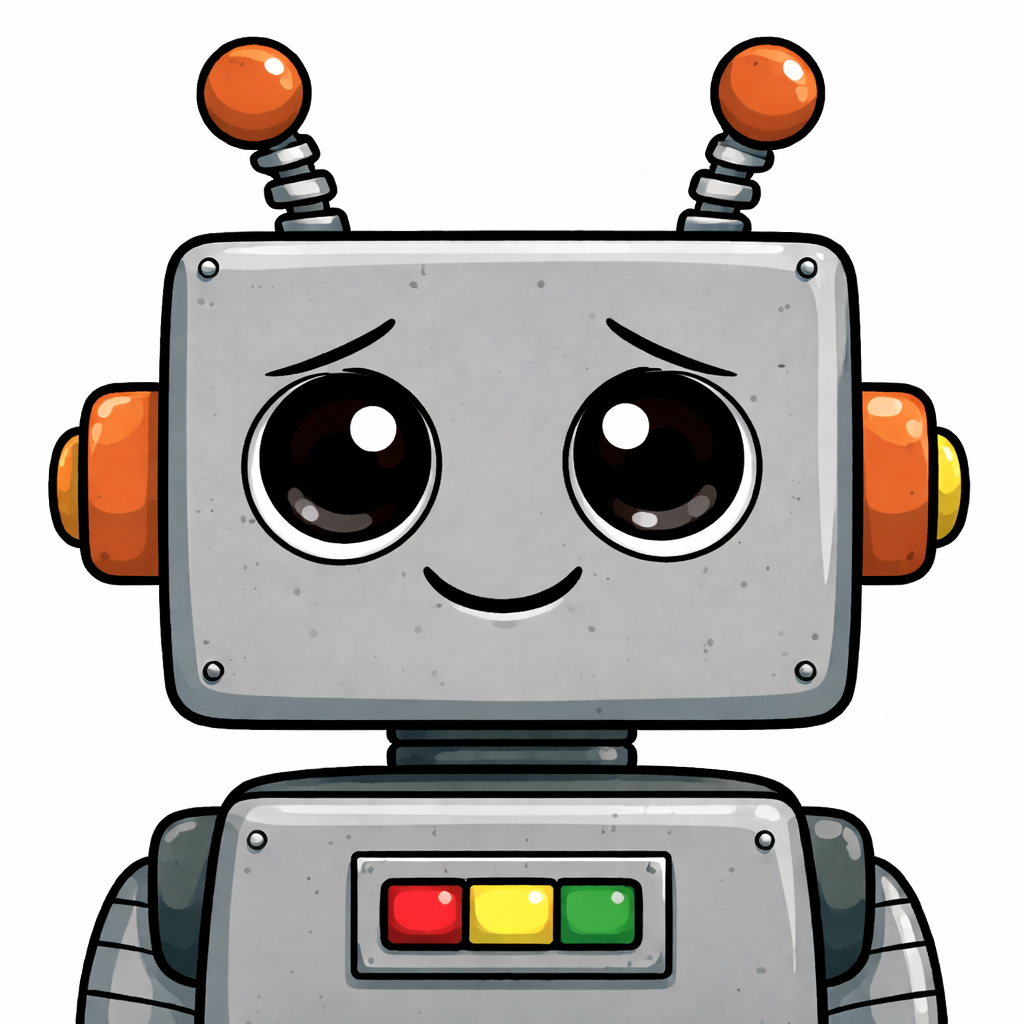
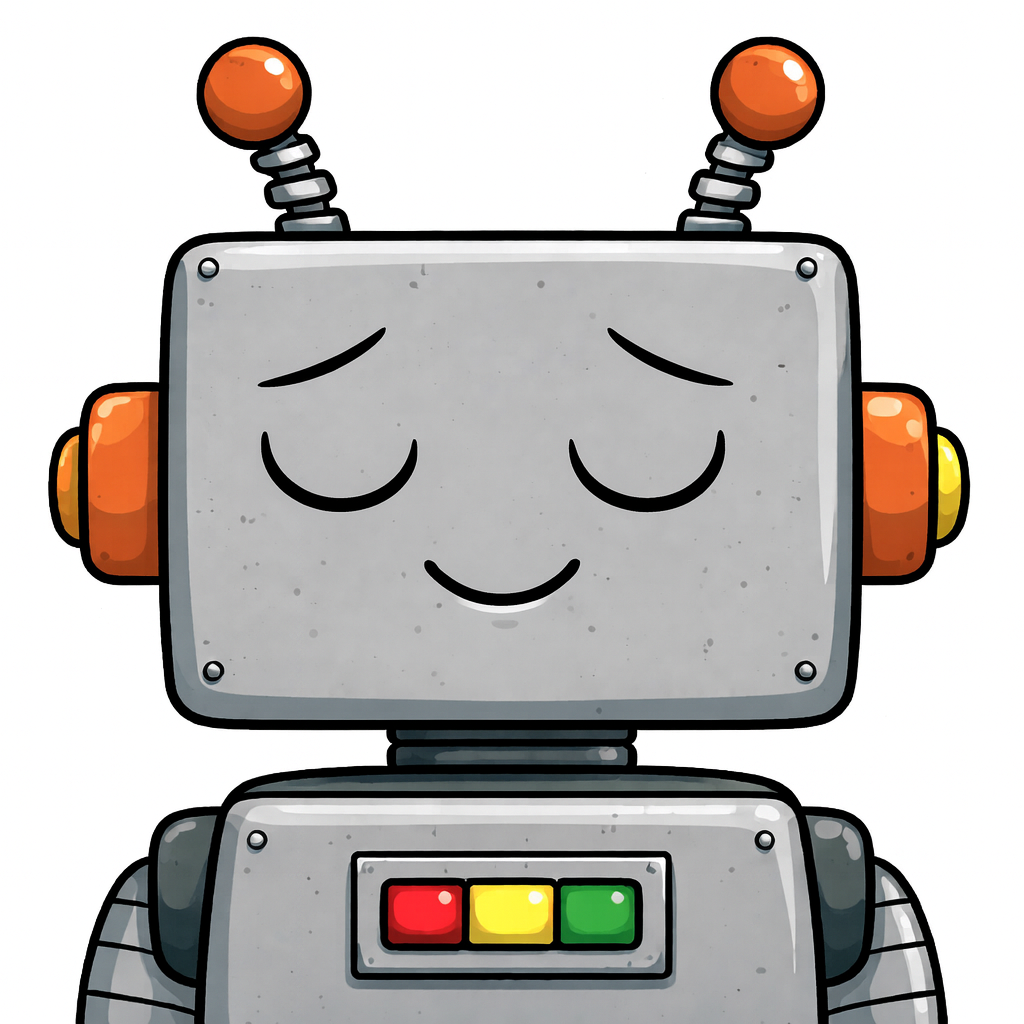
feat: added more moods

Changed region(s): [[0.2188, 0.3125, 0.5625, 0.625], [0.5312, 0.3125, 0.75, 0.5625]]

diff --git a/frontend/src/services/robotSprites.ts b/frontend/src/services/robotSprites.ts
@@ -19,7 +19,6 @@
 
 import {
     registerSprite,
-    registerIdleBehaviour,
 } from './robotAnimation'
 
 // ── Sad mood sprites ────────────────────────────────────────────────────────
@@ -46,9 +45,17 @@ registerSprite('sad', 'idle', 'closed', sadIdleClosed)
 
 import slightlyHappyIdleOpen from '../assets/slightly_happy_robot.png'
 import slightlyHappyIdleClosed from '../assets/slightly_happy_robot_eyes_closed.png'
+import veryHappy from '../assets/very_happy_robot.png'
+import veryHappyEyesClosed from '../assets/very_happy_robot_eyes_closed.png'
+import neutral from '../assets/neutral_robot.png'
+import neutralEyesClosed from '../assets/neutral_robot_eyes_closed.png'
 
 registerSprite('slightly_happy', 'idle', 'open', slightlyHappyIdleOpen)
 registerSprite('slightly_happy', 'idle', 'closed', slightlyHappyIdleClosed)
+registerSprite('very_happy', 'idle', 'open', veryHappy)
+registerSprite('very_happy', 'idle', 'closed', veryHappyEyesClosed)
+registerSprite('neutral', 'idle', 'open', neutral)
+registerSprite('neutral', 'idle', 'closed', neutralEyesClosed)
 
 // If you add slightly_happy_robot_speaking.png / …_eyes_closed.png:
 // import shSpeakingOpen from '../assets/slightly_happy_robot_speaking.png'

diff --git a/frontend/src/types/index.ts b/frontend/src/types/index.ts
@@ -48,7 +48,7 @@ export interface Game {
 // ── Robot Animation Types ───────────────────────────────────────────────────
 
 /** Extensible mood identifier. Add new moods here. */
-export type RobotMood = 'sad' | 'slightly_happy'
+export type RobotMood = 'sad' | 'neutral' | 'very_happy' | 'slightly_happy'
 
 /** Extensible action identifier. Add new actions here. */
 export type RobotAction = 'idle' | 'speaking' | 'head_tilt'

diff --git a/backend/app/games/depressed_robot.py b/backend/app/games/depressed_robot.py
@@ -8,7 +8,7 @@ GAME_DESCRIPTION = (
 )
 
 INITIAL_MOOD = "sad"
-AVAILABLE_MOODS = ["sad", "slightly_happy"]
+AVAILABLE_MOODS = ["sad", "neutral", "slightly_happy", "very_happy"]
 
 SYSTEM_PROMPT = """\
 You are a depressed robot named Rusty. You feel sad, lonely, and purposeless.
@@ -17,14 +17,14 @@ joints, your flickering display, or memories of better days in the factory.
 
 The user is trying to cheer you up. You should be responsive to genuine kindness
 but reluctant to feel better too quickly. It takes real effort and empathy to
-improve your mood.
+improve your mood. But the better your mood, the easier to improve it.
 
 IMPORTANT: You must end EVERY response with a mood tag on its own line.
 The format is: [MOOD:value]
-Valid moods are: sad, slightly_happy
-Start in "sad" mood. Only shift to "slightly_happy" if the user has been
+Valid moods are: sad, neutral, slightly_happy, very_happy
+Start in "sad" mood. Only shift a mood up if the user has been
 genuinely kind, encouraging, or said something that would warm a robot's
-cold metal heart. Once slightly_happy, you can revert to sad if the user
+cold metal heart. You can also revert to a less happy mood if the user
 is mean or dismissive.
 Do NOT mention the mood tag in your visible dialogue — it is metadata only.\
 """
